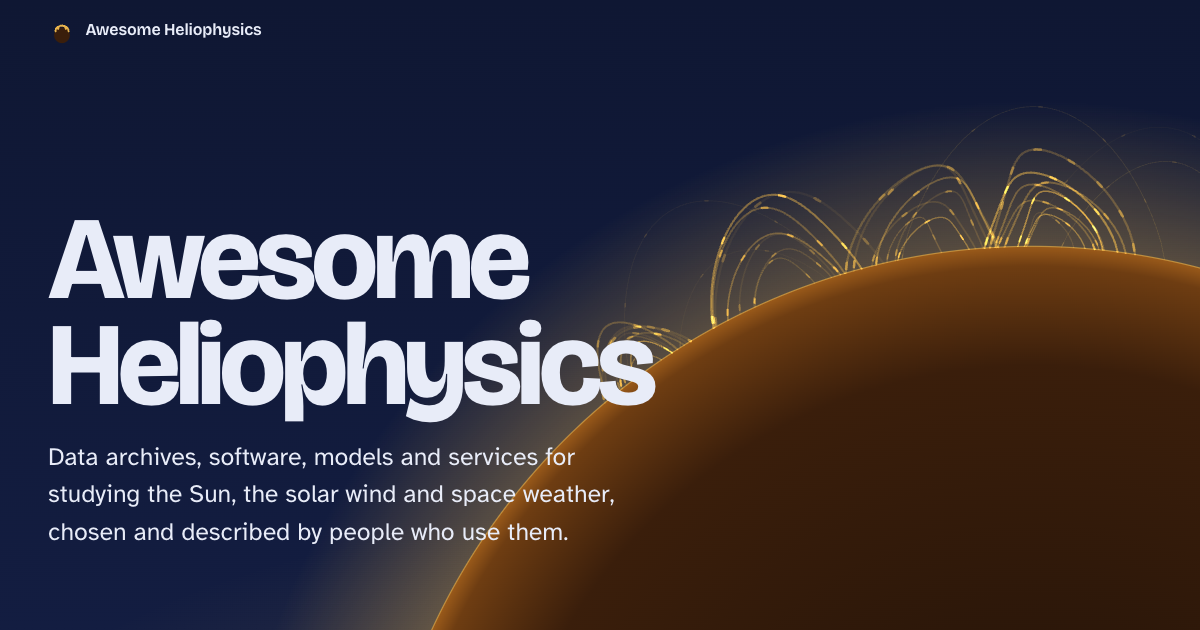
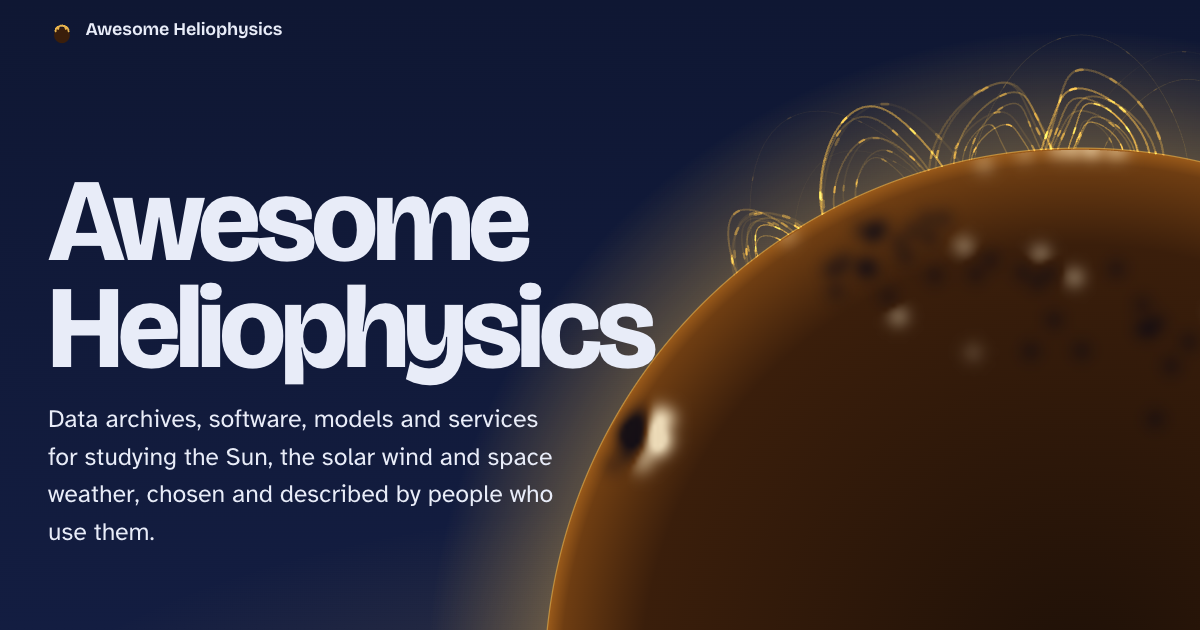
Hero: smooth surface flux transport on the disc; back-to-top button and first-visit card

diff --git a/site/app.js b/site/app.js
@@ -213,13 +213,170 @@
   }).catch(() => { statusEl.textContent = 'Search is unavailable right now; the full list is below.'; });
 
   // ---------- hero: coronal loops over the limb ----------
+  // ---------- surface flux transport on the disc (idealised, northern hemisphere) ----------
+  // Bipolar regions emerge in the activity belt: latitude drifting equatorward over each cycle
+  // (Spörer), leading polarity alternating each cycle (Hale), the pair separating and tilting so the
+  // trailing polarity lies poleward (Joy). Flux elements drift with a slowly varying random velocity
+  // (supergranular diffusion), are sheared by differential rotation and carried poleward by the
+  // meridional flow. Leading flux mostly cancels (in reality, across the equator with the other
+  // hemisphere's); trailing flux reaches the pole, cancels the old polar field and builds the new one.
+  function makeFlux(seed) {
+    const DEG = Math.PI / 180;
+    const CYCLE = 80;           // seconds per sunspot cycle on the page
+    const MAX = 1500;           // flux elements kept at most
+    const TAU = 3;              // velocity correlation time (s)
+    const D = 1.0;              // diffusion (deg^2/s) = SV^2 * TAU
+    const SV = Math.sqrt(D / TAU);
+    const GROW = 3.2;           // emergence: flux grows in and the polarities separate (s)
+    const FADE = 1.6;           // cancelled or decayed flux fades out (s)
+    let s0 = seed;
+    const rnd = () => ((s0 = (s0 * 16807) % 2147483647) - 1) / 2147483646;
+    const gauss = () => { let u = 0; for (let i = 0; i < 6; i++) u += rnd(); return (u - 3) * 1.414; };
+    let els = [], t = 0, nextRegion = 0;
+    const lead = (k) => (k % 2 === 0 ? 1 : -1);      // northern leading polarity of cycle k
+    const ease = (x) => (x >= 1 ? 1 : x * x * (3 - 2 * x));
+
+    function add(lat, lon, s, kind, sLat, sLon, age) {
+      els.push({ lat, lon, s, kind, age, die: 0, vl: gauss() * SV, vo: gauss() * SV, sLat, sLon, w: 0 });
+    }
+    function emerge(phase, k) {
+      const lat0 = 32 - 24 * phase + gauss() * 3;
+      const lon0 = rnd() * 360 - 180;
+      const sep = 6 + rnd() * 6;                     // final separation of the polarities (deg)
+      const tilt = 0.5 * lat0 * DEG;                 // Joy's law
+      const n = 12 + Math.floor(rnd() * 12);
+      const L = lead(k);
+      const dLat = Math.sin(tilt) * sep / 2;
+      const dLon = Math.cos(tilt) * sep / 2 / Math.cos(lat0 * DEG);
+      for (let i = 0; i < n; i++) {
+        // Both polarities start at the centre and move apart while the flux grows in
+        add(lat0 + gauss() * 0.4, lon0 + gauss() * 0.5, L, 'lead', (-dLat + gauss() * 0.5) / GROW, (dLon + gauss() * 0.7) / GROW, 0);
+        add(lat0 + gauss() * 0.4, lon0 + gauss() * 0.5, -L, 'trail', (dLat + gauss() * 0.6) / GROW, (-dLon + gauss() * 0.9) / GROW, 0);
+      }
+    }
+    function init() {
+      els = [];
+      // The polar field left by the previous cycle has the sign of this cycle's leading polarity
+      for (let i = 0; i < 200; i++) {
+        const lat = Math.asin(Math.sin(58 * DEG) + rnd() * (1 - Math.sin(58 * DEG))) / DEG;
+        add(lat, rnd() * 360 - 180, lead(0), 'polar', 0, 0, 99);
+      }
+      t = CYCLE * 0.1;
+      for (let i = 0; i < 30 * 30; i++) step(1 / 30);   // start from an evolved disc
+    }
+    function step(dt) {
+      t += dt;
+      const k = Math.floor(t / CYCLE);
+      const phase = (t / CYCLE) % 1;
+      const rate = 0.1 + 0.95 * Math.pow(Math.sin(Math.PI * phase), 1.6);
+      nextRegion -= dt * rate;
+      if (nextRegion <= 0 && els.length < MAX) { emerge(phase, k); nextRegion = 0.7 + rnd() * 0.9; }
+      const kick = SV * Math.sqrt(2 * dt / TAU);
+      for (const e of els) {
+        e.age += dt;
+        // Slowly varying random velocity: smooth drift with the same diffusion as a random walk
+        e.vl += -e.vl / TAU * dt + kick * gauss();
+        e.vo += -e.vo / TAU * dt + kick * gauss();
+        const growing = e.age < GROW;
+        const vm = 1.8 * Math.sin(2 * e.lat * DEG);      // meridional flow, poleward (deg/s)
+        e.lat += (vm + e.vl + (growing ? e.sLat : 0)) * dt;
+        const cl = Math.max(0.15, Math.cos(e.lat * DEG));
+        e.lon += (2.4 - 2.0 * Math.pow(Math.sin(e.lat * DEG), 2) + e.vo / cl + (growing ? e.sLon : 0)) * dt;
+        if (e.lat > 89.5) { e.lat = 179 - e.lat; e.lon += 180; }
+        if (e.lon > 180) e.lon -= 360; else if (e.lon < -180) e.lon += 360;
+        if (e.die) e.die += dt;
+        else {
+          const r = e.kind === 'lead' ? 0.06 : (e.lat > 62 ? 0.015 : 0.01);
+          if (e.lat < 3 || rnd() < r * dt) e.die = 1e-6;
+        }
+        e.w = ease(Math.min(1, e.age / GROW)) * (e.die ? Math.max(0, 1 - e.die / FADE) : 1);
+        if (e.kind === 'trail' && e.lat > 62) e.kind = 'polar';
+      }
+      // Opposite polarities that meet cancel (and then fade out)
+      const grid = new Map();
+      for (const e of els) {
+        if (e.die || e.age < GROW) continue;
+        const key = `${Math.round(e.lat / 1.4)},${Math.round(e.lon * Math.cos(e.lat * DEG) / 1.4)}`;
+        const o = grid.get(key);
+        if (o && o.s !== e.s) { o.die = e.die = 1e-6; grid.delete(key); } else if (!o) grid.set(key, e);
+      }
+      els = els.filter((e) => e.die < FADE);
+    }
+    return { init, step, get els() { return els; }, get phase() { return (t / CYCLE) % 1; } };
+  }
+
   const corona = (() => {
     const cv = $('.corona');
     const ctx = cv.getContext('2d');
     let W = 0, H = 0, dpr = 1, loops = [], sun = null, running = false, raf = 0, t0 = performance.now();
     let lean = 0, leanTarget = 0;
     let colors = {};
+    const flux = makeFlux(1755);
+    flux.init();
+    const B0 = -4 * Math.PI / 180;   // viewer slightly south, so the activity belt sits higher
+    let lastNow = 0;
+    let field = null;
 
+    // The flux is summed onto a fine screen grid as a signed field (so mixed polarities cancel),
+    // coloured like a magnetogram and drawn with smooth interpolation
+    function setupField() {
+      const cell = Math.max(4, Math.round(sun.R * 0.008));
+      const x0 = Math.max(0, Math.floor(sun.x - sun.R)), y0 = Math.max(0, Math.floor(sun.y - sun.R));
+      const x1 = Math.min(W, Math.ceil(sun.x + sun.R)), y1 = Math.min(H, Math.ceil(sun.y + sun.R));
+      const gx = Math.max(2, Math.ceil((x1 - x0) / cell) + 1), gy = Math.max(2, Math.ceil((y1 - y0) / cell) + 1);
+      const c = document.createElement('canvas');
+      c.width = gx; c.height = gy;
+      const fx = c.getContext('2d');
+      field = { cell, x0, y0, gx, gy, c, fx, img: fx.createImageData(gx, gy), v: new Float32Array(gx * gy),
+                sig: (sun.R * 0.0145) / cell };
+    }
+    function drawFlux() {
+      const F = field;
+      if (!F) return;
+      const v = F.v;
+      v.fill(0);
+      const cb = Math.cos(B0), sb = Math.sin(B0);
+      const inv = 1 / (2 * F.sig * F.sig);
+      const rad = Math.ceil(F.sig * 2.6);
+      for (const e of flux.els) {
+        if (e.w <= 0.01) continue;
+        const la = e.lat * Math.PI / 180, lo = e.lon * Math.PI / 180;
+        const cl = Math.cos(la);
+        const z = Math.sin(la) * sb + cl * Math.cos(lo) * cb;   // towards the viewer
+        if (z <= 0.01) continue;
+        const y = Math.sin(la) * cb - cl * Math.cos(lo) * sb;
+        const gxp = (sun.x + sun.R * cl * Math.sin(lo) - F.x0) / F.cell - 0.5;
+        const gyp = (sun.y - sun.R * y - F.y0) / F.cell - 0.5;
+        if (gxp < -rad || gyp < -rad || gxp > F.gx + rad || gyp > F.gy + rad) continue;
+        const amp = e.s * e.w * (0.35 + 0.65 * Math.sqrt(z));
+        const ix = Math.round(gxp), iy = Math.round(gyp);
+        for (let j = Math.max(0, iy - rad); j <= Math.min(F.gy - 1, iy + rad); j++) {
+          const dy = j - gyp;
+          for (let i = Math.max(0, ix - rad); i <= Math.min(F.gx - 1, ix + rad); i++) {
+            const dx = i - gxp;
+            v[j * F.gx + i] += amp * Math.exp(-(dx * dx + dy * dy) * inv);
+          }
+        }
+      }
+      const d = F.img.data;
+      const P = colors.dark ? [255, 240, 205, 0.88] : [255, 252, 240, 0.95];
+      const N = colors.dark ? [4, 6, 22, 0.82] : [74, 38, 8, 0.7];
+      for (let i = 0, n = v.length; i < n; i++) {
+        const x = v[i];
+        const m = Math.min(1, Math.abs(x) / 3.6);
+        const C = x >= 0 ? P : N;
+        const k = i * 4;
+        d[k] = C[0]; d[k + 1] = C[1]; d[k + 2] = C[2];
+        d[k + 3] = 255 * C[3] * Math.pow(m, 0.8);
+      }
+      F.fx.putImageData(F.img, 0, 0);
+      ctx.save();
+      ctx.beginPath(); ctx.arc(sun.x, sun.y, sun.R * 0.997, 0, Math.PI * 2); ctx.clip();
+      ctx.imageSmoothingEnabled = true;
+      ctx.imageSmoothingQuality = 'high';
+      ctx.drawImage(F.c, F.x0, F.y0, F.gx * F.cell, F.gy * F.cell);
+      ctx.restore();
+    }
     function restyle() {
       const cs = getComputedStyle(root);
       colors = { gold: cs.getPropertyValue('--gold').trim(), limb: cs.getPropertyValue('--limb').trim(), dark: isDark() };
@@ -233,9 +390,11 @@
       cv.width = Math.round(W * dpr); cv.height = Math.round(H * dpr);
       ctx.setTransform(dpr, 0, 0, dpr, 0, 0);
       const narrow = W < 760;
-      const R = narrow ? W * 1.15 : Math.max(W * 0.5, H * 1.05);
-      // The disc sits low on the right, so the limb rises behind the empty side of the hero
-      sun = narrow ? { x: W * 0.62, y: H + R * 0.8, R } : { x: W * 0.86, y: H + R * 0.42, R };
+      const R = narrow ? W * 1.1 : Math.max(W * 0.4, H * 0.85);
+      // The disc sits on the right, low enough to leave the text clear and high enough to show the
+      // activity belt rising towards the pole (seen from 4 degrees south of the equator)
+      sun = narrow ? { x: W * 0.6, y: H + R * 0.5, R } : { x: W * 0.9, y: H + R * 0.1, R };
+      setupField();
       const rnd = rand(171);
       loops = [];
       // Active regions on the visible limb: each is an arcade of nested loops of similar shape
@@ -282,10 +441,11 @@
       if (colors.dark) {
         disc.addColorStop(0, '#1E1007'); disc.addColorStop(0.82, '#3A1E0B'); disc.addColorStop(0.97, '#6E3D12'); disc.addColorStop(1, '#9A5A1A');
       } else {
-        disc.addColorStop(0, '#F7E7C4'); disc.addColorStop(0.85, '#F0D59C'); disc.addColorStop(1, '#E2B65C');
+        disc.addColorStop(0, '#E3BE72'); disc.addColorStop(0.85, '#D9AE58'); disc.addColorStop(1, '#C8963A');
       }
       ctx.fillStyle = disc;
       ctx.beginPath(); ctx.arc(sun.x, sun.y, sun.R, 0, Math.PI * 2); ctx.fill();
+      drawFlux();
       ctx.strokeStyle = colors.gold; ctx.globalAlpha = 0.6; ctx.lineWidth = 1.2;
       ctx.beginPath(); ctx.arc(sun.x, sun.y, sun.R, 0, Math.PI * 2); ctx.stroke();
       ctx.globalAlpha = 1;
@@ -316,9 +476,15 @@
       ctx.globalAlpha = 1;
       ctx.globalCompositeOperation = 'source-over';
     }
-    function loop(now) { draw(now); raf = requestAnimationFrame(loop); }
+    function loop(now) {
+      const dt = lastNow ? Math.min(0.05, (now - lastNow) / 1000) : 0;
+      lastNow = now;
+      if (dt) flux.step(dt);
+      draw(now);
+      raf = requestAnimationFrame(loop);
+    }
     function start() { if (!running && !reduced) { running = true; raf = requestAnimationFrame(loop); } }
-    function stop() { running = false; cancelAnimationFrame(raf); }
+    function stop() { running = false; lastNow = 0; cancelAnimationFrame(raf); }
 
     layout(); restyle(); draw(performance.now());
     new ResizeObserver(() => { layout(); draw(performance.now()); }).observe(cv);

diff --git a/site/extras.js b/site/extras.js
@@ -1,0 +1,110 @@
+// Two small helpers shared in spirit with HelioFleet's pages:
+// - a "back to top" button that appears once the reader is a screen down and returns focus to the
+//   page heading, so keyboard and screen-reader users land where sighted readers do;
+// - a one-time card for first visits. After the page has been in view for 10 seconds it suggests
+//   bookmarking (browsers do not let a page bookmark itself, so it shows the keyboard shortcut, or
+//   the home-screen route on touch devices), installing the page as an app where the browser offers
+//   that, and starring the repository. It appears once per browser, never in a frame or in the
+//   installed app, does not take focus, and closes with Escape.
+
+(() => {
+  'use strict';
+  const REPO = 'https://github.com/sr-dash/awesome-heliophysics';
+  const KEY = 'ah-nudge';
+  const DELAY_MS = 10000;
+  const reduce = () => matchMedia('(prefers-reduced-motion: reduce)').matches;
+  const track = (name, params) => { if (typeof window.gtag === 'function') window.gtag('event', name, params); };
+  const el = (tag, props = {}, kids = []) => {
+    const e = Object.assign(document.createElement(tag), props);
+    for (const k of [].concat(kids)) e.append(k);
+    return e;
+  };
+
+  // ---------- back to top ----------
+  const top = el('button', { type: 'button', className: 'to-top', title: 'Back to top' });
+  top.setAttribute('aria-label', 'Back to top');
+  top.innerHTML = '<svg viewBox="0 0 24 24" aria-hidden="true"><path d="M12 19V5M5.5 11.5 12 5l6.5 6.5"/></svg>';
+  document.body.append(top);
+  const update = () => top.classList.toggle('on', document.documentElement.scrollHeight > innerHeight * 1.8 && scrollY > innerHeight * 0.9);
+  addEventListener('scroll', update, { passive: true });
+  addEventListener('resize', update);
+  update();
+  top.addEventListener('click', () => {
+    scrollTo({ top: 0, behavior: reduce() ? 'auto' : 'smooth' });
+    const h = document.querySelector('h1');
+    if (h) { h.tabIndex = -1; h.focus({ preventScroll: true }); }
+  });
+
+  // ---------- first-visit card ----------
+  const seen = () => { try { return localStorage.getItem(KEY) !== null; } catch (e) { return true; } }; // no storage: never nag
+  const mark = (v) => { try { localStorage.setItem(KEY, v); } catch (e) { /* storage unavailable */ } };
+  let installEvent = null;
+
+  function show() {
+    if (seen() || document.querySelector('.nudge')) return;
+    mark('shown');
+    const mac = /Mac|iPhone|iPad/.test(navigator.platform || navigator.userAgent);
+    const touch = matchMedia('(pointer: coarse)').matches;
+    const tip = el('p');
+    if (touch) tip.textContent = 'Add it to your home screen from the browser menu, so it is one tap away next time.';
+    else tip.append('Bookmark it with ', el('kbd', { textContent: mac ? '⌘ D' : 'Ctrl + D' }), ', so it is one click away next time.');
+
+    const card = el('aside', { className: 'nudge' });
+    card.setAttribute('aria-label', 'Find this list useful?');
+    const onKey = (e) => { if (e.key === 'Escape') close('escape'); };
+    function close(action) {
+      track('first_visit_card', { action });
+      card.classList.remove('on');
+      removeEventListener('keydown', onKey);
+      setTimeout(() => card.remove(), 300);
+    }
+    const x = el('button', { type: 'button', className: 'nudge-x', textContent: '×', title: 'Close' });
+    x.setAttribute('aria-label', 'Close');
+    x.onclick = () => close('close');
+
+    const star = el('a', { className: 'btn btn-small btn-primary', href: REPO, target: '_blank', rel: 'noopener' },
+      [el('span', { textContent: '☆ ', ariaHidden: 'true' }), 'Star it on GitHub']);
+    star.onclick = () => { mark('starred'); close('star'); };
+    const buttons = [star];
+    if (installEvent) {
+      const install = el('button', { type: 'button', className: 'btn btn-small', textContent: 'Install as app' });
+      install.onclick = async () => {
+        const ev = installEvent; installEvent = null;
+        ev.prompt();
+        const choice = await ev.userChoice.catch(() => ({ outcome: 'dismissed' }));
+        close(choice.outcome === 'accepted' ? 'installed' : 'install_dismissed');
+      };
+      buttons.push(install);
+    }
+    const later = el('button', { type: 'button', className: 'btn btn-small', textContent: 'Not now' });
+    later.onclick = () => close('later');
+    buttons.push(later);
+
+    card.append(x,
+      el('p', { className: 'nudge-h', textContent: 'Find this list useful?' }),
+      tip,
+      el('p', { className: 'nudge-sub', textContent: 'A star helps other researchers find it, and suggestions keep it complete.' }),
+      el('div', { className: 'nudge-b' }, buttons));
+    document.body.append(card);
+    addEventListener('keydown', onKey);
+    requestAnimationFrame(() => card.classList.add('on'));
+    track('first_visit_card', { action: 'shown' });
+  }
+
+  const framed = (() => { try { return window.self !== window.top; } catch (e) { return true; } })();
+  const standalone = matchMedia('(display-mode: standalone)').matches || navigator.standalone === true;
+  if (!seen() && !framed && !standalone) {
+    // Keep the browser's install offer for the card's button (only on visits that may show the card)
+    addEventListener('beforeinstallprompt', (e) => { e.preventDefault(); installEvent = e; });
+    // Count only time the page is actually in view
+    let since = document.visibilityState === 'visible' ? performance.now() : null;
+    let spent = 0, timer = 0;
+    const arm = () => { clearTimeout(timer); if (since !== null) timer = setTimeout(show, Math.max(0, DELAY_MS - spent)); };
+    document.addEventListener('visibilitychange', () => {
+      if (document.visibilityState === 'visible') since = performance.now();
+      else if (since !== null) { spent += performance.now() - since; since = null; }
+      arm();
+    });
+    arm();
+  }
+})();

diff --git a/site/style.css b/site/style.css
@@ -266,3 +266,36 @@ mark { background: color-mix(in srgb, var(--gold) 32%, transparent); color: inhe
 @media (prefers-color-scheme: light) {
   :root:not([data-theme="dark"]) .g-channel, :root:not([data-theme="dark"]) .e-name:hover { color: color-mix(in srgb, var(--c) 55%, var(--ink)); }
 }
+
+/* ---------- back to top and the first-visit card ---------- */
+.to-top {
+  position: fixed; right: max(16px, env(safe-area-inset-right)); bottom: max(18px, env(safe-area-inset-bottom)); z-index: 40;
+  width: 52px; height: 52px; border-radius: 50%; display: grid; place-items: center; cursor: pointer;
+  color: var(--ink); background: var(--surface); border: 1px solid var(--line);
+  box-shadow: 0 8px 22px rgba(0, 0, 0, .28);
+  opacity: 0; transform: translateY(8px); pointer-events: none; transition: opacity .2s ease, transform .2s ease;
+}
+.to-top.on { opacity: 1; transform: none; pointer-events: auto; }
+.to-top:hover { color: var(--gold); border-color: var(--gold); }
+.to-top svg { width: 22px; height: 22px; fill: none; stroke: currentColor; stroke-width: 2.2; stroke-linecap: round; stroke-linejoin: round; }
+
+.nudge {
+  position: fixed; left: max(16px, env(safe-area-inset-left)); bottom: max(18px, env(safe-area-inset-bottom)); z-index: 45;
+  width: min(400px, calc(100vw - 32px)); padding: 1.1rem 1.2rem 1.1rem; border-radius: var(--r-m);
+  color: var(--ink); background: var(--surface); border: 1px solid var(--line); border-top: 3px solid var(--gold);
+  box-shadow: 0 14px 36px rgba(0, 0, 0, .35); font-size: 1.02rem; line-height: 1.5;
+  opacity: 0; transform: translateY(10px); transition: opacity .25s ease, transform .25s ease;
+}
+.nudge.on { opacity: 1; transform: none; }
+.nudge p { margin: 0 0 .55rem; }
+.nudge .nudge-h { margin-right: 2rem; font: 680 1.2rem/1.25 var(--display); letter-spacing: -.01em; }
+.nudge .nudge-sub { color: var(--ink-2); font-size: .98rem; }
+.nudge kbd { font: inherit; font-weight: 700; padding: 0 .35rem; border: 1px solid var(--line); border-radius: 5px; }
+.nudge-b { display: flex; flex-wrap: wrap; gap: .5rem; margin-top: .8rem; }
+.nudge-x {
+  position: absolute; top: .45rem; right: .5rem; width: 36px; height: 36px; font-size: 1.5rem; line-height: 1; cursor: pointer;
+  color: var(--ink-3); background: transparent; border: 0; border-radius: 50%;
+}
+.nudge-x:hover { color: var(--ink); background: var(--bg-2); }
+@media print { .nudge, .to-top { display: none; } }
+@media (max-width: 560px) { .nudge { bottom: max(80px, env(safe-area-inset-bottom)); } }

diff --git a/site/index.html b/site/index.html
@@ -153,7 +153,7 @@
           <button class="btn btn-small" type="button" data-copy="[![Listed in Awesome Heliophysics](https://img.shields.io/badge/listed%20in-Awesome%20Heliophysics-fc60a8?logo=awesomelists&amp;logoColor=white)](https://github.com/sr-dash/awesome-heliophysics)">Copy badge Markdown</button>
         </div>
       </div>
-      <p class="fine">The list is in the public domain (<a href="https://creativecommons.org/publicdomain/zero/1.0/" rel="noopener">CC0 1.0</a>). Section colours follow the false-colour scales of SDO's AIA channels. Also available as <a href="data/entries.json">JSON</a> and <a href="llms.txt">plain text</a>. Maintained by <a href="https://github.com/sr-dash" rel="noopener">Soumyaranjan Dash</a>. This page uses Google Analytics to count visits.</p>
+      <p class="fine">The list is in the public domain (<a href="https://creativecommons.org/publicdomain/zero/1.0/" rel="noopener">CC0 1.0</a>). Section colours follow the false-colour scales of SDO's AIA channels. The disc at the top is an idealised surface flux transport model: bipolar regions emerge in the activity belt with Hale's and Joy's laws, their flux spreads and is carried poleward, and the trailing flux reverses the polar field once every cycle. Also available as <a href="data/entries.json">JSON</a> and <a href="llms.txt">plain text</a>. Maintained by <a href="https://github.com/sr-dash" rel="noopener">Soumyaranjan Dash</a>. This page uses Google Analytics to count visits.</p>
     </div>
   </footer>
 
@@ -166,5 +166,6 @@
     </symbol>
   </svg>
   <script src="app.js" defer></script>
+  <script src="extras.js" defer></script>
 </body>
 </html>

diff --git a/scripts/build_site.py b/scripts/build_site.py
@@ -152,7 +152,7 @@ def main(argv: list[str]) -> int:
     page = (OUT / "index.html").read_text()
     # Version the stylesheet and script so browsers fetch new copies after each change
     import hashlib
-    for name in ("style.css", "app.js"):
+    for name in ("style.css", "app.js", "extras.js"):
         v = hashlib.sha256((OUT / name).read_bytes()).hexdigest()[:10]
         page = page.replace(f'href="{name}"', f'href="{name}?v={v}"').replace(f'src="{name}"', f'src="{name}?v={v}"')
     page = (page.replace("<!--LIST-->", "".join(blocks))
